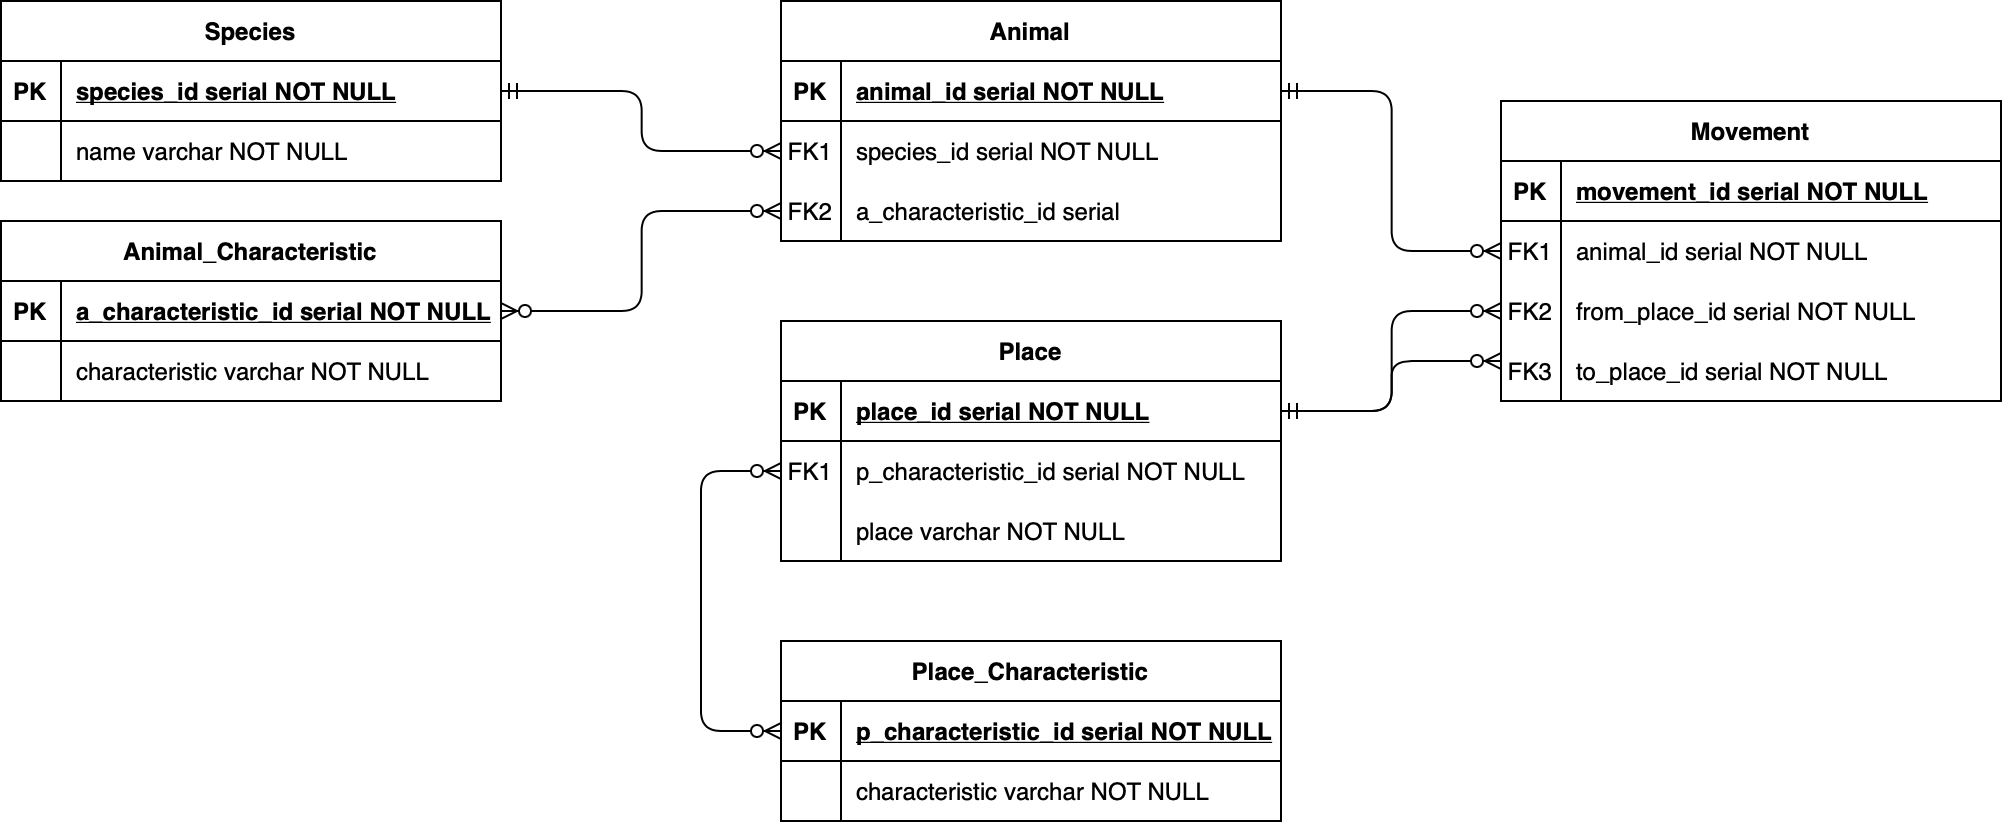
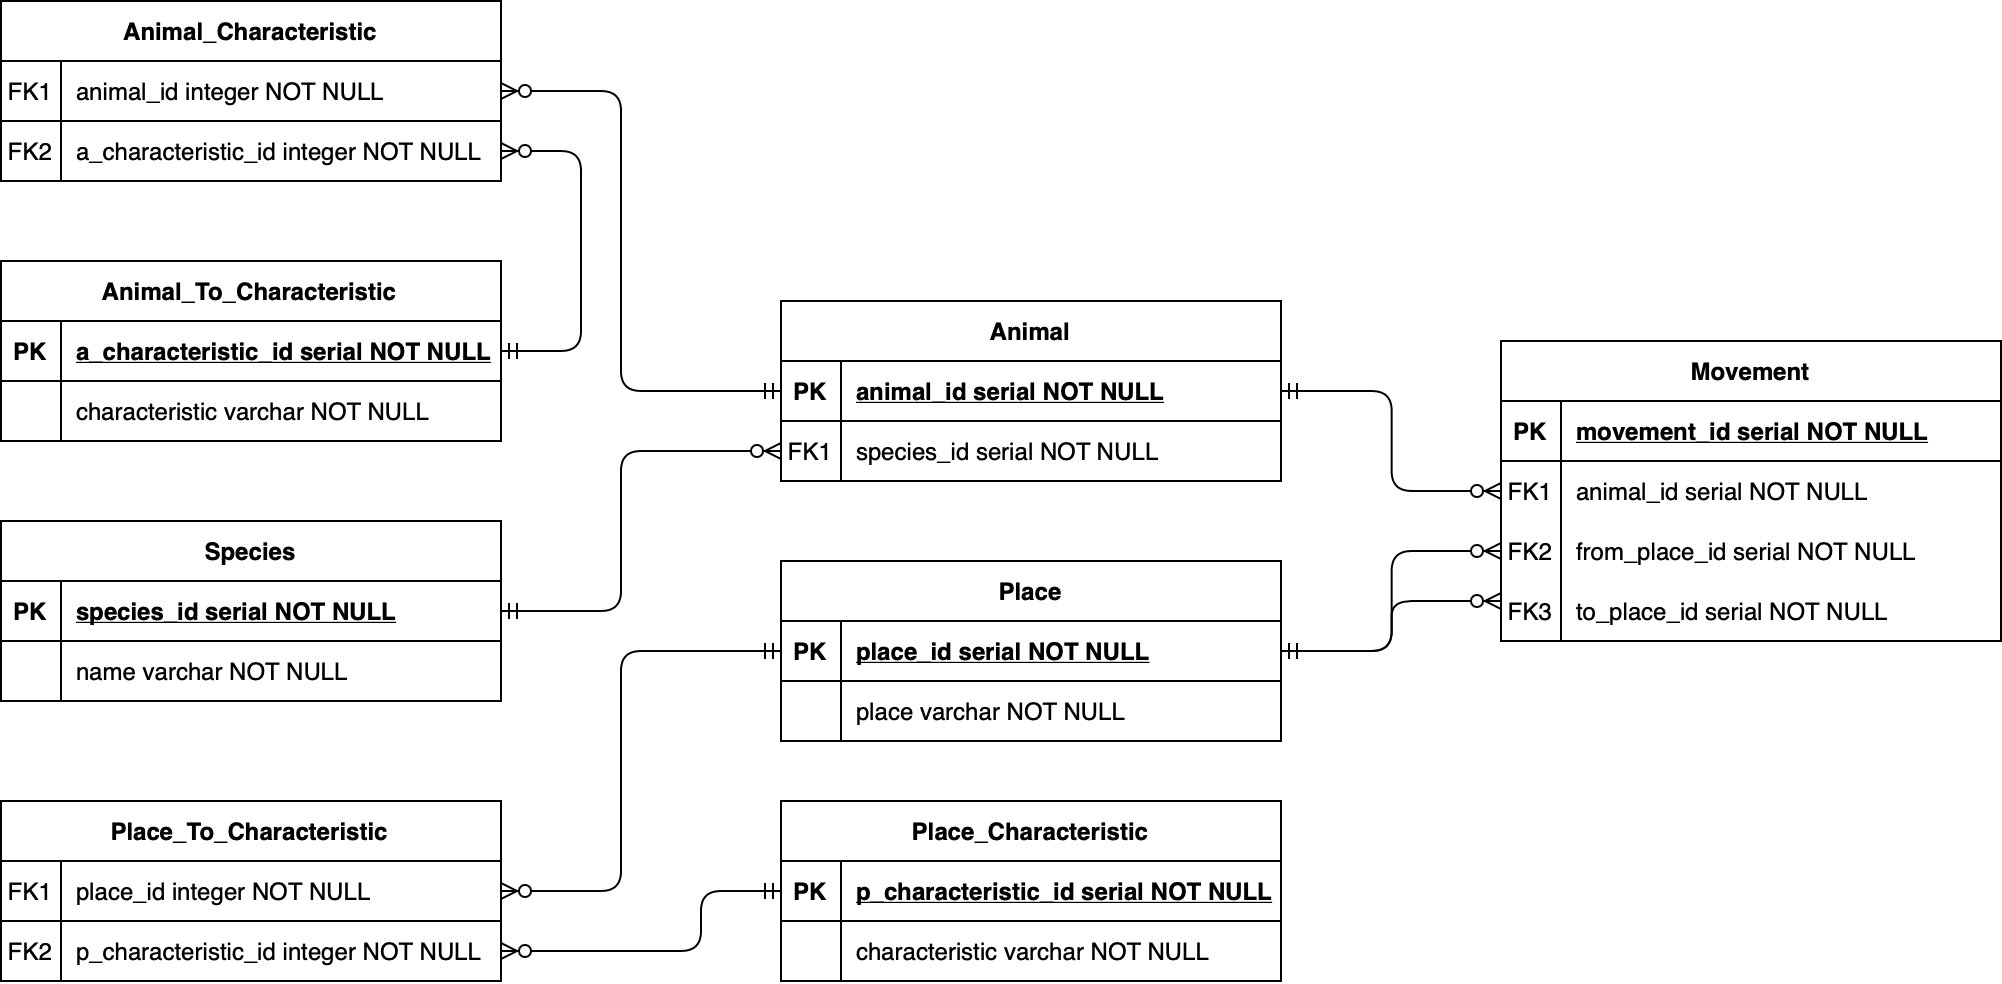
Added solution for lab1

diff --git a/lab1/README.md b/lab1/README.md
@@ -35,3 +35,95 @@
 
 ![ER Diagram](Lab1-ER-Diagram.png)
 
+## DDL
+
+```sql
+CREATE TABLE IF NOT EXISTS species (
+    species_id SERIAL PRIMARY KEY,
+    name VARCHAR NOT NULL
+);
+
+CREATE TABLE IF NOT EXISTS animal_characteristic (
+    a_characteristic_id SERIAL PRIMARY KEY,
+    characteristic VARCHAR NOT NULL
+);
+
+CREATE TABLE IF NOT EXISTS animal (
+    animal_id SERIAL PRIMARY KEY,
+    species_id INTEGER REFERENCES species (species_id)
+);
+
+CREATE TABLE IF NOT EXISTS animal_to_characteristic (
+    animal_id INTEGER REFERENCES animal (animal_id),
+    a_characteristic_id INTEGER REFERENCES animal_characteristic (a_characteristic_id)
+);
+
+CREATE TABLE IF NOT EXISTS place_characteristic (
+    p_characteristic_id SERIAL PRIMARY KEY,
+    characteristic VARCHAR NOT NULL
+);
+
+CREATE TABLE IF NOT EXISTS place (
+    place_id SERIAL PRIMARY KEY,
+    place VARCHAR NOT NULL
+);
+
+CREATE TABLE IF NOT EXISTS place_to_characteristic (
+    place_id INTEGER REFERENCES place (place_id),
+    p_characteristic_id INTEGER REFERENCES place_characteristic (p_characteristic_id)
+);
+
+CREATE TABLE IF NOT EXISTS movement (
+    movement_id SERIAL PRIMARY KEY,
+    animal_id INTEGER REFERENCES animal (animal_id),
+    from_place_id INTEGER REFERENCES place (place_id),
+    to_place_id INTEGER REFERENCES place (place_id)
+);
+```
+
+## DML
+
+```sql
+-- Species
+INSERT INTO species (species_id, name) VALUES (1, 'леопард');
+
+-- Animal
+
+INSERT INTO animal (animal_id, species_id) VALUES (1, 1);
+
+-- Animal Characteristic
+
+INSERT INTO animal_characteristic (a_characteristic_id, characteristic) VALUES
+    (1, 'убогий свирепый мозг'),
+    (2, 'неудержимо возбуждаем'),
+    (3, 'непоколебим');
+
+-- Association animal to animal_characteristic
+
+INSERT INTO animal_to_characteristic (animal_id, a_characteristic_id) VALUES
+    (1, 1),
+    (1, 2),
+    (1, 3);
+
+-- Place
+
+INSERT INTO place (place_id, place) VALUES
+    (1, 'проход'),
+    (2, 'пещера');
+
+-- Place Characteristic
+
+INSERT INTO place_characteristic (p_characteristic_id, characteristic) VALUES
+    (1, 'узкий'),
+    (2, 'пахнет свежей кровью');
+
+-- Association place to place_characteristic
+
+INSERT INTO place_to_characteristic (place_id, p_characteristic_id) VALUES
+    (1, 1),
+    (2, 2);
+
+-- Movement
+
+INSERT INTO movement (animal_id, from_place_id, to_place_id) VALUES (1, 1, 2);
+```
